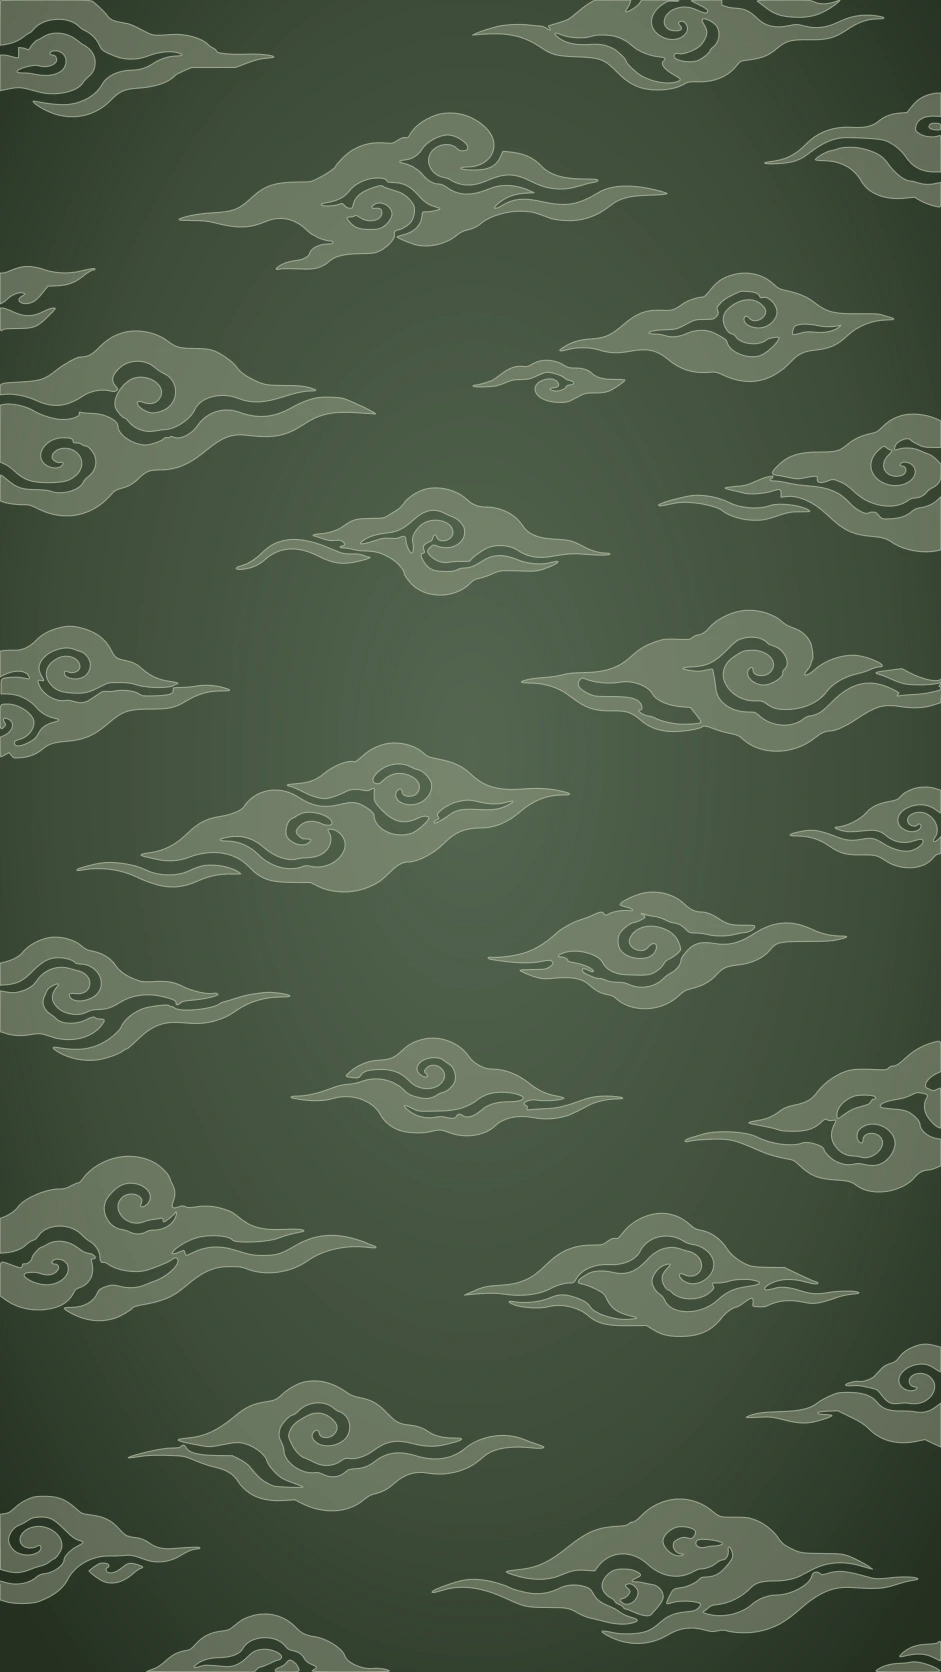
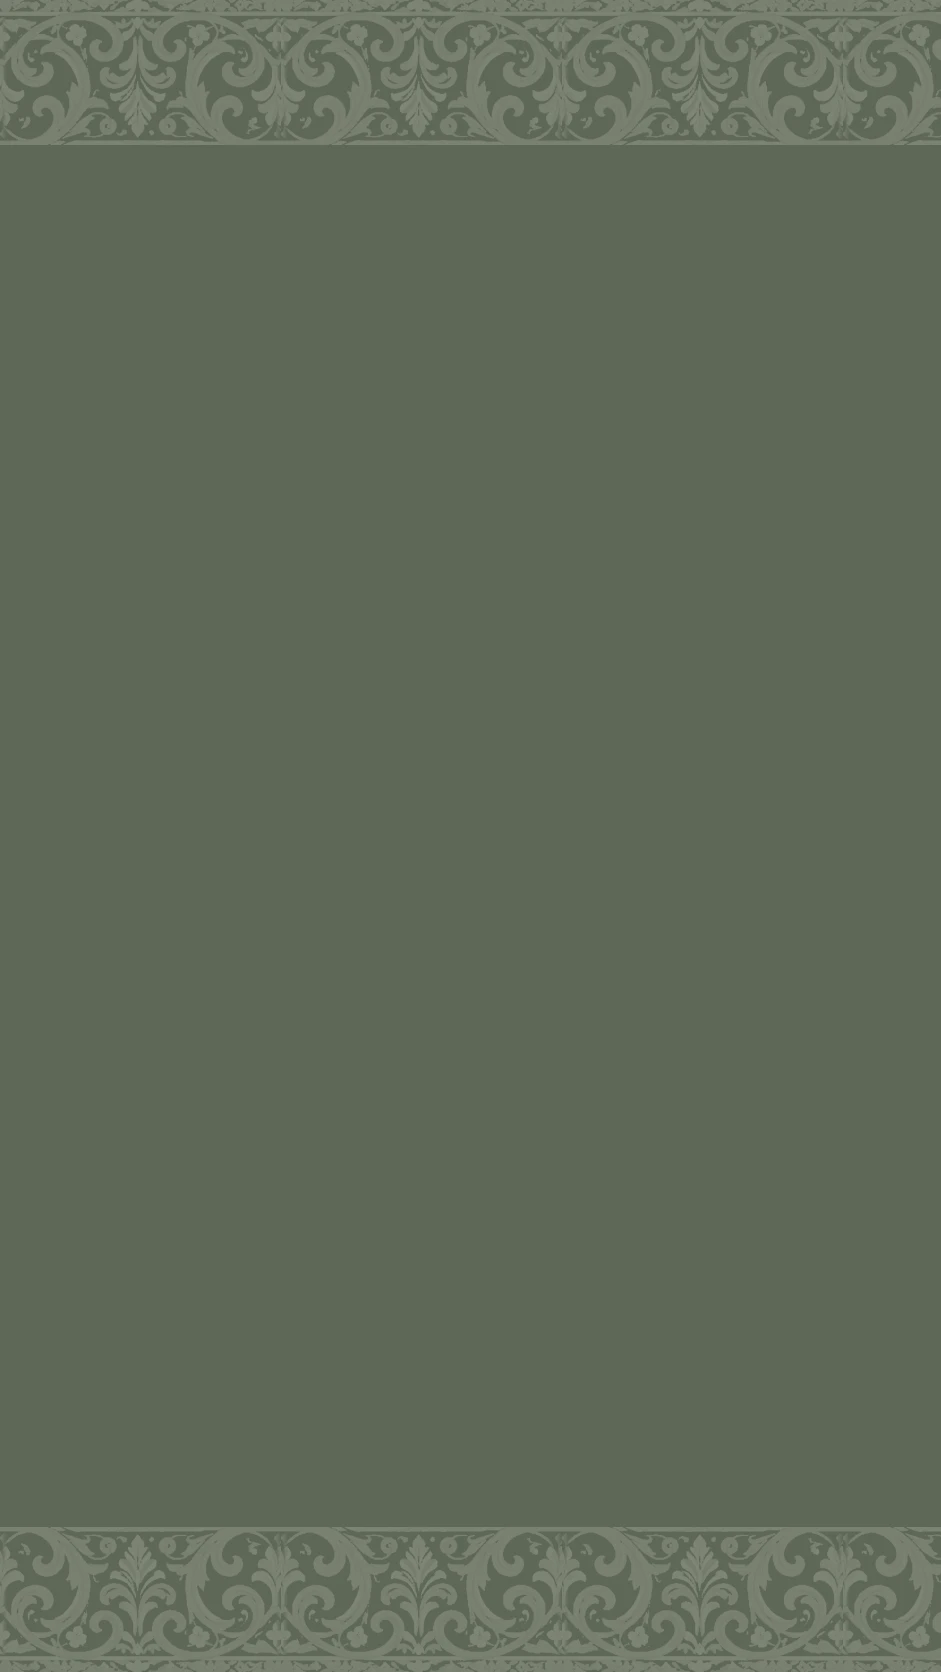
feat(cover): introduce continuous top and bottom Nusantara ornamental borders in single-color watermark style
- Add responsive top and bottom continuous ornamental border runners
- Render motif in subtle, single-color tone-on-tone watermark aesthetic on sage canvas
- Create cover-motifs partial and update invitation layout and preloads
- Keep central text and monogram area completely open and unobstructed

diff --git a/public/css/style.css b/public/css/style.css
@@ -148,10 +148,7 @@ button {
     flex: 1;
     height: 100vh;
     background-color: var(--color-sage);
-    background-image: url('/img/sage-batik-cloud.webp');
-    background-repeat: no-repeat;
-    background-position: center center;
-    background-size: cover;
+    background-image: none;
     color: var(--color-white);
     padding: 2.5rem;
     position: relative;
@@ -168,7 +165,8 @@ button {
   .desktop-aside-inner {
     max-width: 520px;
     width: 100%;
-    z-index: 1;
+    position: relative;
+    z-index: 2;
   }
 
   .desktop-eyebrow {
@@ -309,11 +307,60 @@ button {
   position: absolute;
   inset: 0;
   background-color: var(--color-sage);
-  background-image: url('/img/sage-batik-cloud.webp');
-  background-repeat: no-repeat;
-  background-position: center center;
-  background-size: cover;
   pointer-events: none;
+  overflow: hidden;
+}
+
+/* ==========================================================================
+   ARCHITECTURAL NUSANTARA MOTIF FRAME (COVER & ASIDE)
+   Top/Bottom Continuous Borders (Image 1) & 4 Vertical Lattice Pillars (Image 2)
+   ========================================================================== */
+.cover-motif-frame {
+  position: absolute;
+  inset: 0;
+  width: 100%;
+  height: 100%;
+  pointer-events: none;
+  overflow: hidden;
+  z-index: 1;
+}
+
+.desktop-aside-pattern {
+  position: absolute;
+  inset: 0;
+  pointer-events: none;
+  z-index: 1;
+  overflow: hidden;
+}
+
+.motif-border {
+  position: absolute;
+  left: 0;
+  right: 0;
+  width: 100%;
+  height: clamp(65px, 9.5vh, 125px);
+  background-repeat: repeat-x;
+  background-size: auto 100%;
+  pointer-events: none;
+  z-index: 3;
+}
+
+.motif-border-top {
+  top: 0;
+  background-image: url('/img/motif-border-top.webp');
+  background-position: top left;
+}
+
+.motif-border-bottom {
+  bottom: 0;
+  background-image: url('/img/motif-border-bottom.webp');
+  background-position: bottom left;
+}
+
+@media (max-width: 480px) {
+  .motif-border {
+    height: clamp(52px, 8vh, 85px);
+  }
 }
 
 .cover-pinstripes {
